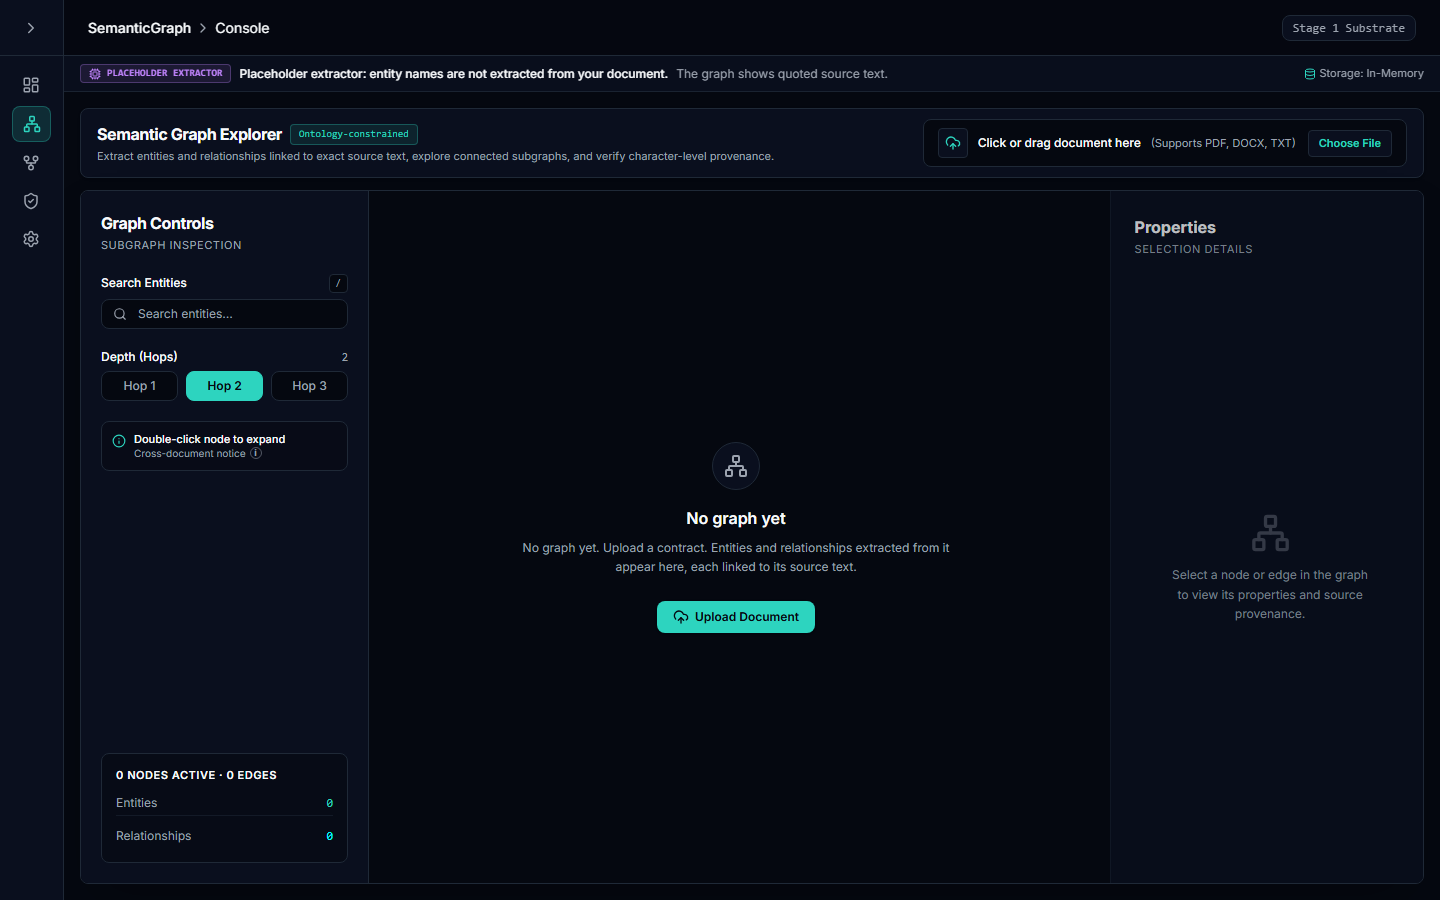
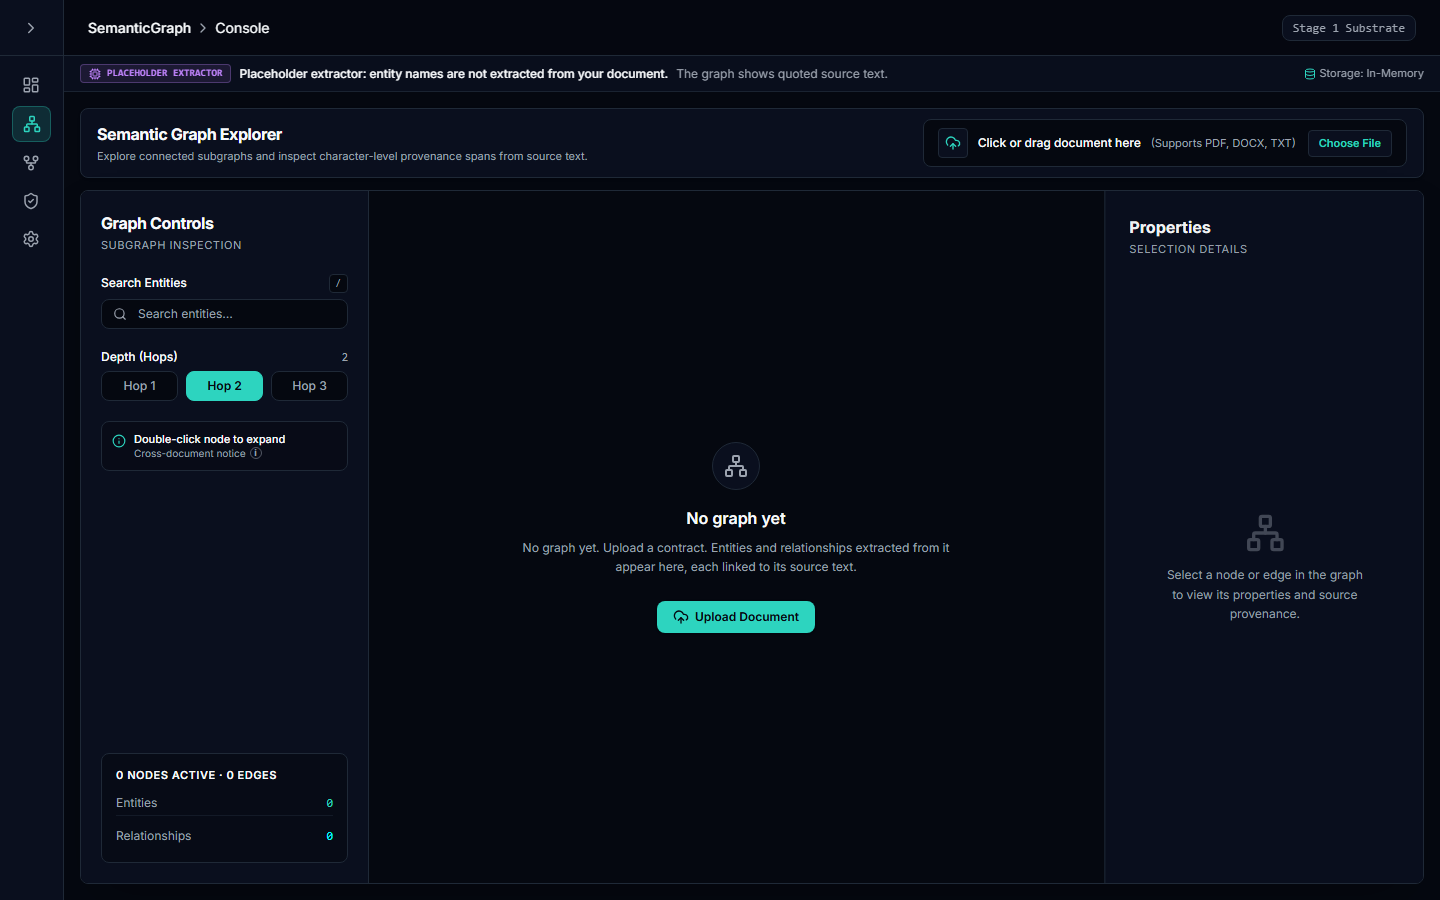
Enforce non-owner RLS role in demo stack and truthful labeling
- Connect api and worker as non-owner semanticgraph_app role with rolbypassrls=False

- Run alembic migrations using admin credentials via ADMIN_DATABASE_URL

- Add integration tests verifying API connected role is non-superuser and enforces RLS

- Declare greenlet dependency in pyproject.toml and remove runtime pip install

- Re-run SQL isolation checks proving 0 rows returned without tenant context

- Recapture 1440px and 390px screenshots displaying durable Postgres storage

- Remove overstating copy from frontend explorer dashboard

Changed region(s): [[0.0625, 0.1244, 0.5312, 0.1867], [0.8125, 0.56, 0.9688, 0.6844], [0.7812, 0.2489, 0.875, 0.28]]

diff --git a/frontend/e2e/capture_t228_screenshots.spec.ts b/frontend/e2e/capture_t228_screenshots.spec.ts
@@ -21,10 +21,18 @@ test.describe('Capture T-228 Screenshots with Status Banner', () => {
 
     // --- 1440px Viewport ---
     await page.setViewportSize({ width: 1440, height: 900 });
-    await banner.goto();
+    const targetBase = process.env.PLAYWRIGHT_BASE_URL;
+    if (targetBase) {
+      await page.goto(`${targetBase}/dashboard/explorer`);
+    } else {
+      await banner.goto();
+    }
 
     await expect(banner.banner).toBeVisible({ timeout: 10_000 });
     await expect(banner.placeholderBadge).toBeVisible();
+    if (targetBase) {
+      await expect(banner.banner.getByText('Storage: Postgres durable')).toBeVisible();
+    }
 
     // 1440px Upload page / explorer top bar
     await page.screenshot({
@@ -66,6 +74,9 @@ test.describe('Capture T-228 Screenshots with Status Banner', () => {
 
     await expect(banner.banner).toBeVisible({ timeout: 10_000 });
     await expect(banner.placeholderBadge).toBeVisible();
+    if (targetBase) {
+      await expect(banner.banner.getByText('Storage: Postgres durable')).toBeVisible();
+    }
 
     // 390px Upload page screenshot
     await page.screenshot({

diff --git a/frontend/src/app/dashboard/explorer/page.tsx b/frontend/src/app/dashboard/explorer/page.tsx
@@ -11,12 +11,9 @@ export default function ExplorerPage() {
             <h1 className="text-sm sm:text-base font-bold text-text tracking-tight whitespace-nowrap">
               Semantic Graph Explorer
             </h1>
-            <span className="text-[10px] font-mono text-teal bg-teal/10 px-2 py-0.5 rounded border border-teal/30 shrink-0">
-              Ontology-constrained
-            </span>
           </div>
           <p className="text-muted text-[11px] hidden sm:block truncate mt-0.5">
-            Extract entities and relationships linked to exact source text, explore connected subgraphs, and verify character-level provenance.
+            Explore connected subgraphs and inspect character-level provenance spans from source text.
           </p>
         </div>
 

diff --git a/tests/integration/demo/verify_real_stack.py b/tests/integration/demo/verify_real_stack.py
@@ -14,7 +14,9 @@ import httpx
 import psycopg
 
 API_URL = "http://localhost:8013"
-DB_URL = "postgresql://user:password@localhost:5433/semanticgraph"
+ADMIN_DB_URL = "postgresql://user:password@localhost:5433/semanticgraph"
+APP_DB_URL = "postgresql://semanticgraph_app:semanticgraph_app@localhost:5433/semanticgraph"
+DB_URL = ADMIN_DB_URL
 TENANT_A = "10000000-0000-0000-0000-000000000001"
 TENANT_B = "20000000-0000-0000-0000-000000000002"
 
@@ -51,6 +53,12 @@ def wait_for_document_processed(tenant_id: str, doc_id: str, timeout: float = 30
 
 def run_checks():
     wait_for_api()
+    # Ensure fresh state for reproducible assertions
+    with psycopg.connect(ADMIN_DB_URL, autocommit=True) as conn, conn.cursor() as cur:
+        cur.execute(
+            "TRUNCATE TABLE edges, entities, evidence_spans, assertions, "
+            "facts, semantic_chunks, documents CASCADE;"
+        )
     print("=" * 70)
     print("T-228 REAL STACK END-TO-END CHECKS")
     print("=" * 70)
@@ -206,22 +214,99 @@ def run_checks():
     print("\n>>> CHECK 2 PASSED: Graph survives api/worker restart with identical node IDs.")
 
     # -------------------------------------------------------------
-    # CHECK 3: Isolation over HTTP
+    # CHECK 3: Isolation over HTTP and SQL RLS (Non-Owner Role)
     # -------------------------------------------------------------
-    print("\n--- CHECK 3: Isolation over HTTP ---")
+    print("\n--- CHECK 3: Isolation over HTTP and SQL RLS (semanticgraph_app) ---")
     res_b_graph = client.get("/api/v1/graph", headers={"X-Tenant-ID": TENANT_B})
     assert res_b_graph.status_code == 200
     b_nodes = res_b_graph.json().get("nodes", [])
     b_edges = res_b_graph.json().get("edges", [])
-    print(f"Tenant B graph: {len(b_nodes)} nodes, {len(b_edges)} edges")
+    print(f"Tenant B HTTP graph: {len(b_nodes)} nodes, {len(b_edges)} edges")
     assert b_nodes == [] and b_edges == [], "Tenant B graph must be empty!"
 
     res_b_doc = client.delete(f"/api/v1/documents/{doc1_id}", headers={"X-Tenant-ID": TENANT_B})
     print(
-        f"Tenant B access to Tenant A doc: Status {res_b_doc.status_code}, Body: {res_b_doc.json()}"
+        f"Tenant B HTTP access to Tenant A doc: Status {res_b_doc.status_code}, "
+        f"Body: {res_b_doc.json()}"
     )
     assert res_b_doc.status_code == 404, "Tenant B must receive 404 for Tenant A's document!"
-    print("\n>>> CHECK 3 PASSED: Second tenant sees empty graph and gets 404 on first tenant doc.")
+
+    # SQL RLS Check 3a: As semanticgraph_app with NO tenant context set, all queries return 0 rows
+    print("\n[SQL RLS as semanticgraph_app without app.current_tenant_id context]")
+    with psycopg.connect(APP_DB_URL) as app_conn, app_conn.cursor() as cur:
+        # Check current user to confirm connected as semanticgraph_app
+        cur.execute("SELECT current_user, session_user;")
+        u_row = cur.fetchone()
+        print(f"  Connected DB role: current_user={u_row[0]}, session_user={u_row[1]}")
+        assert u_row[0] == "semanticgraph_app", f"Must be semanticgraph_app, got {u_row[0]}"
+
+        # Query all tables without setting tenant context
+        cur.execute("SELECT count(*) FROM documents;")
+        doc_count_no_tenant = cur.fetchone()[0]
+        cur.execute("SELECT count(*) FROM semantic_chunks;")
+        chunk_count_no_tenant = cur.fetchone()[0]
+        cur.execute("SELECT count(*) FROM entities;")
+        entity_count_no_tenant = cur.fetchone()[0]
+        cur.execute("SELECT count(*) FROM edges;")
+        edge_count_no_tenant = cur.fetchone()[0]
+
+        print(
+            f"  SELECT count(*) FROM documents:       {doc_count_no_tenant} (expected 0)\n"
+            f"  SELECT count(*) FROM semantic_chunks: {chunk_count_no_tenant} (expected 0)\n"
+            f"  SELECT count(*) FROM entities:        {entity_count_no_tenant} (expected 0)\n"
+            f"  SELECT count(*) FROM edges:           {edge_count_no_tenant} (expected 0)"
+        )
+        assert (
+            doc_count_no_tenant == 0
+            and chunk_count_no_tenant == 0
+            and entity_count_no_tenant == 0
+            and edge_count_no_tenant == 0
+        ), "CRITICAL: RLS failed! Non-owner role semanticgraph_app saw rows without tenant context!"
+        print("  -> Verified: zero rows visible when no tenant context is set.")
+
+    # SQL RLS Check 3b: With SET LOCAL app.current_tenant_id = TENANT_B, returns 0 rows
+    print("\n[SQL RLS as semanticgraph_app with SET LOCAL app.current_tenant_id = TENANT_B]")
+    with psycopg.connect(APP_DB_URL) as app_conn, app_conn.cursor() as cur:
+        cur.execute(f"SET LOCAL app.current_tenant_id = '{TENANT_B}';")
+        cur.execute("SELECT count(*) FROM documents;")
+        doc_count_tb = cur.fetchone()[0]
+        cur.execute("SELECT count(*) FROM entities;")
+        entity_count_tb = cur.fetchone()[0]
+        cur.execute("SELECT count(*) FROM edges;")
+        edge_count_tb = cur.fetchone()[0]
+        print(
+            f"  Tenant B SQL context:\n"
+            f"    documents: {doc_count_tb} (expected 0)\n"
+            f"    entities:  {entity_count_tb} (expected 0)\n"
+            f"    edges:     {edge_count_tb} (expected 0)"
+        )
+        assert doc_count_tb == 0 and entity_count_tb == 0 and edge_count_tb == 0
+
+    # SQL RLS Check 3c: With SET LOCAL app.current_tenant_id = TENANT_A, returns Tenant A rows
+    print("\n[SQL RLS as semanticgraph_app with SET LOCAL app.current_tenant_id = TENANT_A]")
+    with psycopg.connect(APP_DB_URL) as app_conn, app_conn.cursor() as cur:
+        cur.execute(f"SET LOCAL app.current_tenant_id = '{TENANT_A}';")
+        cur.execute("SELECT count(*) FROM documents;")
+        doc_count_ta = cur.fetchone()[0]
+        cur.execute("SELECT count(*) FROM semantic_chunks;")
+        chunk_count_ta = cur.fetchone()[0]
+        cur.execute("SELECT count(*) FROM entities;")
+        entity_count_ta = cur.fetchone()[0]
+        cur.execute("SELECT count(*) FROM edges;")
+        edge_count_ta = cur.fetchone()[0]
+        print(
+            f"  Tenant A SQL context:\n"
+            f"    documents:       {doc_count_ta} (expected 1)\n"
+            f"    semantic_chunks: {chunk_count_ta} (expected 2)\n"
+            f"    entities:        {entity_count_ta} (expected > 0)\n"
+            f"    edges:           {edge_count_ta} (expected > 0)"
+        )
+        assert doc_count_ta == 1 and chunk_count_ta == 2 and entity_count_ta > 0
+
+    print(
+        "\n>>> CHECK 3 PASSED: Tenant B isolated via HTTP and SQL RLS "
+        "(zero rows without tenant context)."
+    )
 
     # -------------------------------------------------------------
     # CHECK 4: Deletion & Rule 4 assertion count cascade

diff --git a/tests/integration/demo/test_rls_connected_role.py b/tests/integration/demo/test_rls_connected_role.py
@@ -1,0 +1,143 @@
+"""Tests that the API and worker connected role enforces RLS (T-228 Item 1).
+
+Verifies:
+1. docker-compose.real.yml configures the non-owner role `semanticgraph_app`
+   for both api and worker, with no superuser or BYPASSRLS privileges.
+2. The role does NOT own the tenant tables.
+3. Queries executed as `semanticgraph_app` with no tenant context set return zero rows.
+4. Fails loudly if the connected role is a superuser or has rolbypassrls=True.
+"""
+
+from pathlib import Path
+from urllib.parse import urlparse
+
+import psycopg
+import pytest
+import yaml
+
+REPO_ROOT = Path(__file__).resolve().parents[3]
+
+
+def get_compose_db_urls() -> tuple[str, str, str]:
+    compose_path = REPO_ROOT / "docker-compose.real.yml"
+    with open(compose_path, encoding="utf-8") as f:
+        compose = yaml.safe_load(f)
+
+    api = compose["services"]["api"]
+    worker = compose["services"]["worker"]
+
+    api_env = dict(e.split("=", 1) for e in api.get("environment", []) if "=" in e)
+    worker_env = dict(e.split("=", 1) for e in worker.get("environment", []) if "=" in e)
+
+    return (
+        api_env.get("DATABASE_URL", ""),
+        worker_env.get("DATABASE_URL", ""),
+        api_env.get("ADMIN_DATABASE_URL", ""),
+    )
+
+
+def test_compose_config_uses_non_owner_role():
+    """Verify compose config points api and worker to semanticgraph_app, not superuser."""
+    api_db_url, worker_db_url, admin_db_url = get_compose_db_urls()
+
+    assert api_db_url, "api DATABASE_URL must be set"
+    assert worker_db_url, "worker DATABASE_URL must be set"
+    assert admin_db_url, "api ADMIN_DATABASE_URL must be set"
+
+    api_user = urlparse(api_db_url).username
+    worker_user = urlparse(worker_db_url).username
+    admin_user = urlparse(admin_db_url).username
+
+    assert api_user == "semanticgraph_app", f"api role must be semanticgraph_app, got '{api_user}'"
+    assert worker_user == "semanticgraph_app", (
+        f"worker role must be semanticgraph_app, got '{worker_user}'"
+    )
+    assert admin_user == "user", f"admin role must be 'user', got '{admin_user}'"
+    assert api_user != admin_user, "API role must NOT be the admin superuser role"
+
+
+def assert_role_satisfies_rls(cur, role_name: str) -> None:
+    """Verifies that a role exists, is NOT a superuser, and does NOT bypass RLS."""
+    cur.execute(
+        "SELECT rolname, rolsuper, rolbypassrls FROM pg_roles WHERE rolname = %s",
+        (role_name,),
+    )
+    row = cur.fetchone()
+    assert row is not None, f"Role '{role_name}' does not exist in PostgreSQL"
+    rolname, rolsuper, rolbypassrls = row
+    assert not rolsuper, f"Connected role '{rolname}' is a superuser (rolsuper=True)"
+    assert not rolbypassrls, f"Connected role '{rolname}' bypasses RLS (rolbypassrls=True)"
+
+
+@pytest.mark.asyncio
+async def test_api_connected_role_not_superuser_and_lacks_bypassrls():
+    """Verify that semanticgraph_app role is not superuser and has rolbypassrls=False."""
+    api_db_url, _, _ = get_compose_db_urls()
+    api_user = urlparse(api_db_url).username or "semanticgraph_app"
+
+    db_candidates = [
+        "postgresql://user:password@localhost:5433/semanticgraph",
+        "postgresql://user:password@localhost:5432/semanticgraph",
+    ]
+    admin_conn = None
+    for cand in db_candidates:
+        try:
+            admin_conn = psycopg.connect(cand, autocommit=True)
+            break
+        except Exception:
+            continue
+
+    if admin_conn is None:
+        pytest.skip("No running PostgreSQL available to check live pg_roles privileges")
+
+    with admin_conn, admin_conn.cursor() as cur:
+        # 1. API role passes RLS enforcement check
+        assert_role_satisfies_rls(cur, api_user)
+
+        # 2. Explicit proof that this check FAILS if a superuser/bypassrls role was connected
+        with pytest.raises(AssertionError, match="super|bypass"):
+            assert_role_satisfies_rls(cur, "user")
+
+        # 3. Check table ownership: API role must not own the tables
+        cur.execute(
+            """
+            SELECT c.relname, r.rolname as owner
+            FROM pg_class c
+            JOIN pg_roles r ON r.oid = c.relowner
+            WHERE c.relname IN ('documents', 'semantic_chunks', 'entities', 'edges')
+            """
+        )
+        for tbl_name, owner in cur.fetchall():
+            assert owner != api_user, f"API role '{api_user}' must not own table '{tbl_name}'"
+
+
+@pytest.mark.asyncio
+async def test_semanticgraph_app_queries_return_zero_without_tenant():
+    """Verify queries as semanticgraph_app return zero rows without tenant context set."""
+    app_candidates = [
+        "postgresql://semanticgraph_app:semanticgraph_app@localhost:5433/semanticgraph",
+        "postgresql://semanticgraph_app:semanticgraph_app@localhost:5432/semanticgraph",
+    ]
+    app_conn = None
+    for cand in app_candidates:
+        try:
+            app_conn = psycopg.connect(cand, autocommit=True)
+            break
+        except Exception:
+            continue
+
+    if app_conn is None:
+        pytest.skip("No running PostgreSQL available with semanticgraph_app credentials")
+
+    with app_conn, app_conn.cursor() as cur:
+        cur.execute("SELECT current_user;")
+        assert cur.fetchone()[0] == "semanticgraph_app"
+
+        # Without app.current_tenant_id, all RLS-protected tables must evaluate to 0 rows
+        for table in ("documents", "semantic_chunks", "entities", "edges"):
+            cur.execute(f"SELECT count(*) FROM {table};")
+            count = cur.fetchone()[0]
+            assert count == 0, (
+                f"RLS isolation breach: table '{table}' returned {count} rows "
+                f"as semanticgraph_app without tenant context!"
+            )

diff --git a/tests/integration/demo/test_compose_real_config.py b/tests/integration/demo/test_compose_real_config.py
@@ -60,10 +60,32 @@ def test_docker_compose_real_postgres_profile_and_migration():
     assert api_env.get("SEMANTICGRAPH_ADAPTERS") == "postgres"
     assert worker_env.get("SEMANTICGRAPH_ADAPTERS") == "postgres"
 
-    # API must run alembic upgrade head before starting uvicorn
+    # API and worker must connect as non-owner semanticgraph_app (RLS enforcement)
+    api_db_url = api_env.get("DATABASE_URL", "")
+    worker_db_url = worker_env.get("DATABASE_URL", "")
+    assert "semanticgraph_app:semanticgraph_app" in api_db_url, (
+        "api must connect as semanticgraph_app, not superuser"
+    )
+    assert "semanticgraph_app:semanticgraph_app" in worker_db_url, (
+        "worker must connect as semanticgraph_app, not superuser"
+    )
+
+    # Admin database URL must be configured for alembic migrations
+    admin_db_url = api_env.get("ADMIN_DATABASE_URL", "")
+    assert "user:password" in admin_db_url, "ADMIN_DATABASE_URL must connect with admin credentials"
+
+    # API must run alembic upgrade head with ADMIN_DATABASE_URL before starting uvicorn
     api_cmd = api.get("command", "")
     assert "alembic upgrade head" in api_cmd, "api must run alembic upgrade head before starting"
     assert "uvicorn" in api_cmd, "api must start uvicorn after migration"
+    assert "DATABASE_URL=$$ADMIN_DATABASE_URL" in api_cmd, (
+        "api must run alembic using ADMIN_DATABASE_URL"
+    )
+
+    # Must NOT have runtime pip install (dependencies must be declared in pyproject.toml)
+    worker_cmd = worker.get("command", "")
+    assert "pip install" not in api_cmd, "api must not run runtime pip install"
+    assert "pip install" not in worker_cmd, "worker must not run runtime pip install"
 
 
 def test_docker_compose_real_frontend_points_to_real_api():
@@ -76,4 +98,6 @@ def test_docker_compose_real_frontend_points_to_real_api():
     if isinstance(fe_env, list):
         fe_env = dict(e.split("=", 1) for e in fe_env if "=" in e)
 
-    assert fe_env.get("NEXT_PUBLIC_API_URL") == "http://localhost:8013"
+    assert fe_env.get("BACKEND_API_URL") == "http://api:8000", (
+        "frontend must point BACKEND_API_URL to api:8000 for server-side proxy rewrites"
+    )
